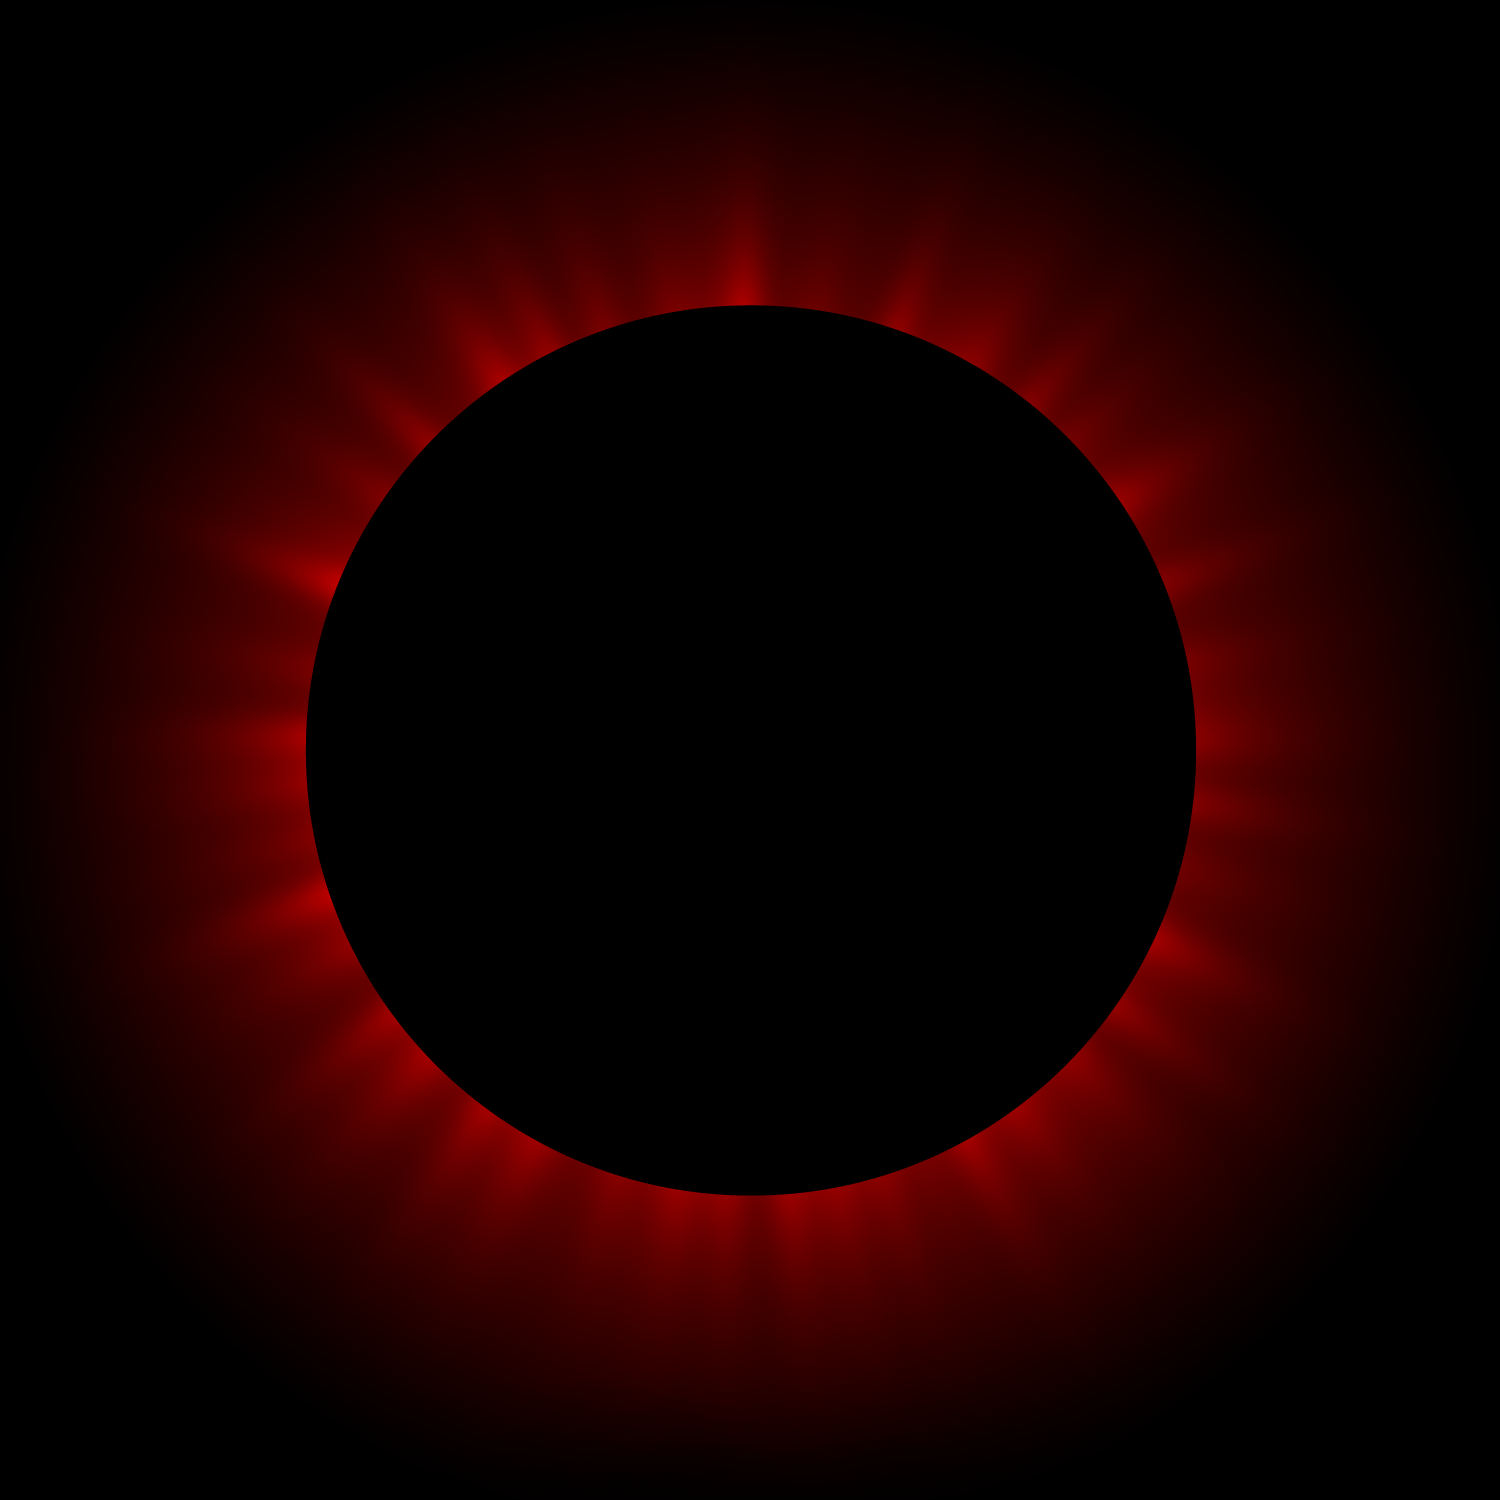
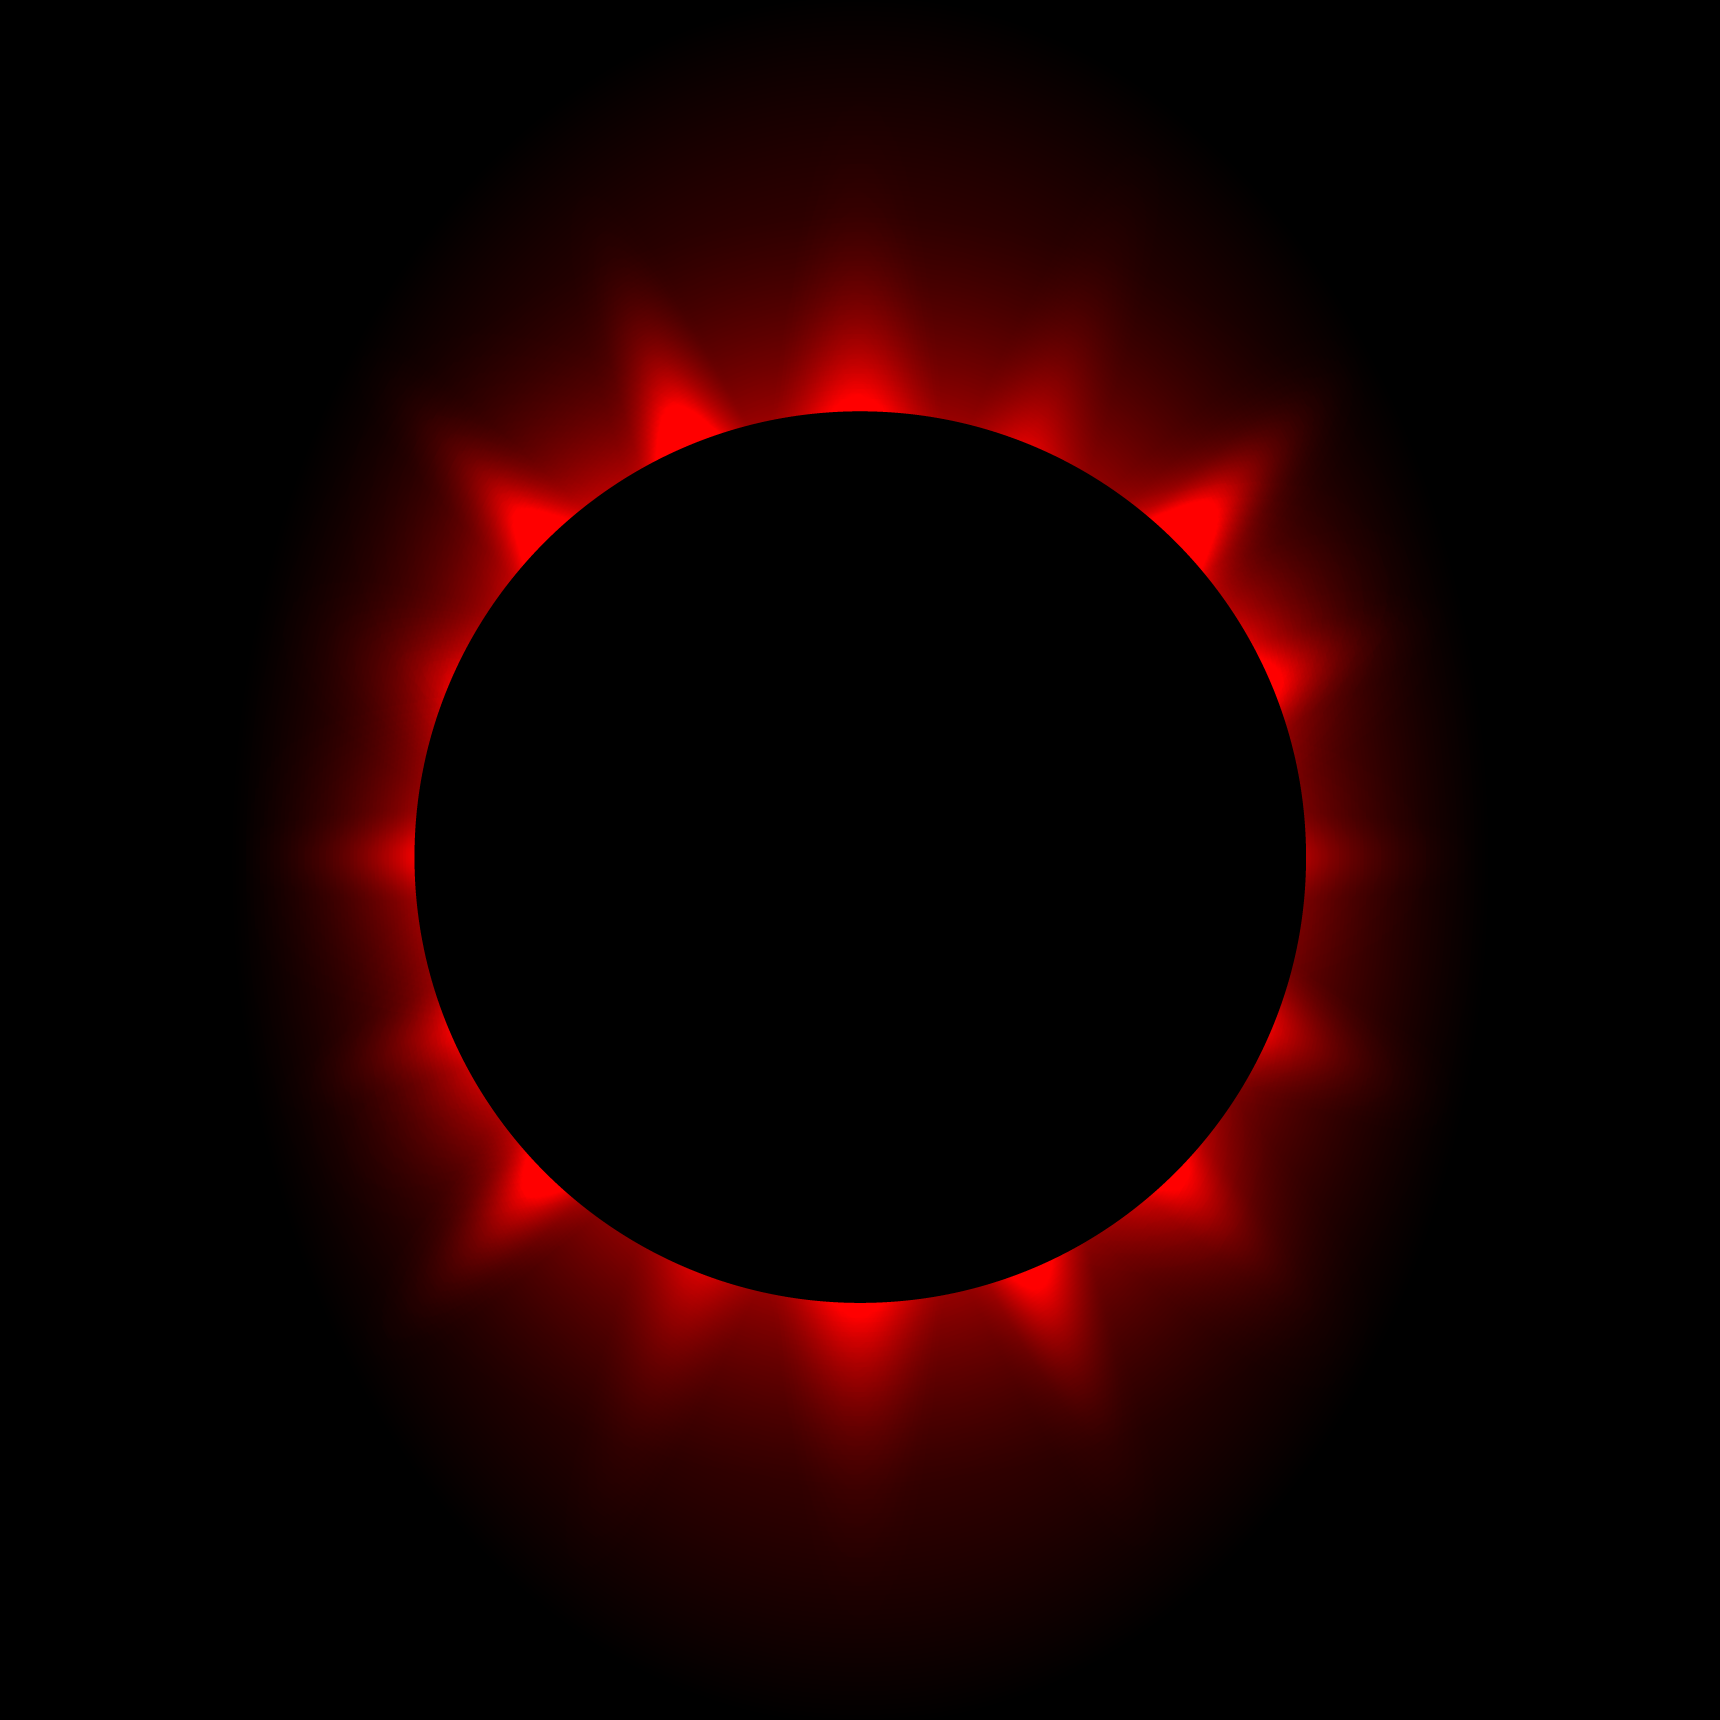
feat: update images for Fortuna Wheel

diff --git a/Client/src/components/black-friday/index.js b/Client/src/components/black-friday/index.js
@@ -35,17 +35,21 @@ align-items: center;
     font-family: Montserrat, sans-serif;
     top: -5%;
     left: 2%;
+
+    .react-turntable-section-btn {
+      display: none !important;
+    }
 }
 
 .wheelAVSram{
   background-image: url(${wheelAVS});
-    background-size: 880px 880px;
+    background-size: 650px 650px;
     float: left;
-    height: 650px;
+    height: 720px;
     position: relative;
     width: 650px;
     z-index: 2;
-    background-position: -113px -149px;
+    background-position: 2px -2px;
     background-repeat: no-repeat;
     z-index: 2;
     margin-left: -78px;
@@ -54,9 +58,10 @@ align-items: center;
 
 .wheelAVScircle{
   position: absolute;
-  top: 177px;
-  left: 195px;
+  top: 145px;
+  left: 158px;
   z-index: 20;
+  transform: scale(0.5);
 }
 
 .wheelAVSfoot{
@@ -578,10 +583,10 @@ const options = {
   secondaryColor: "#E8E5E2",
   separatorWidth: 6,
   separatorColor: "#000",
-  winningPrimarySectorColor: "#FFC300",
-  winningSecondarySectorColor: "rgba(0, 68, 255, 1)",
-  winningPrimaryFontColor: "#000000",
-  winningSecondaryFontColor: "#fff",
+  winningPrimarySectorColor: "#be2b30ff",
+  winningSecondarySectorColor: "#f8f6f5ff",
+  winningPrimaryFontColor: "#f7c537",
+  winningSecondaryFontColor: "#C02025",
   fontStyle:{
       size:"28px",
       fontVertical:true,
